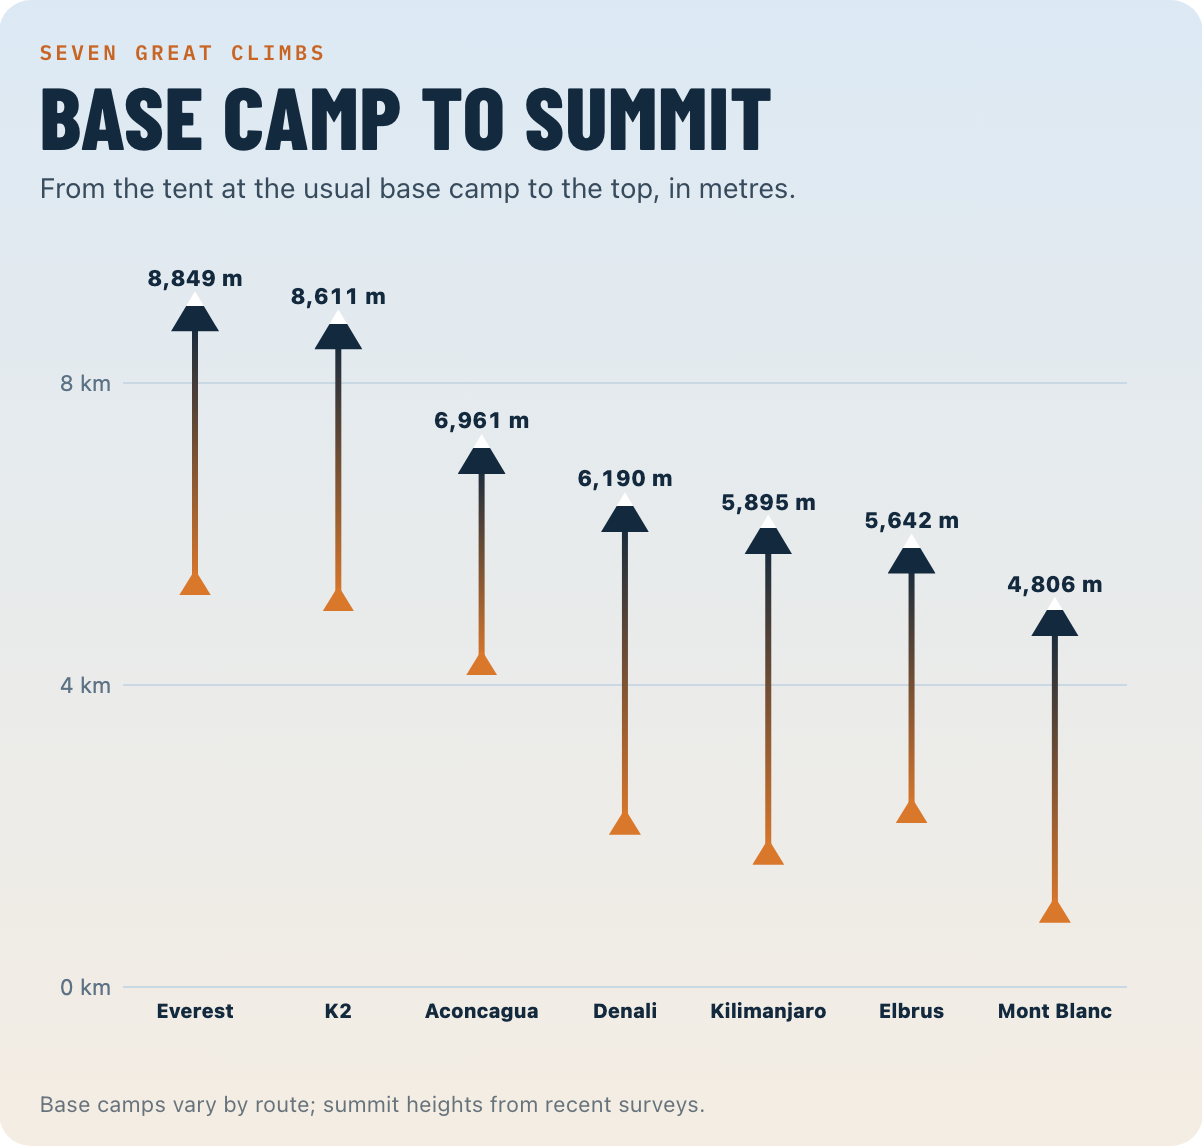
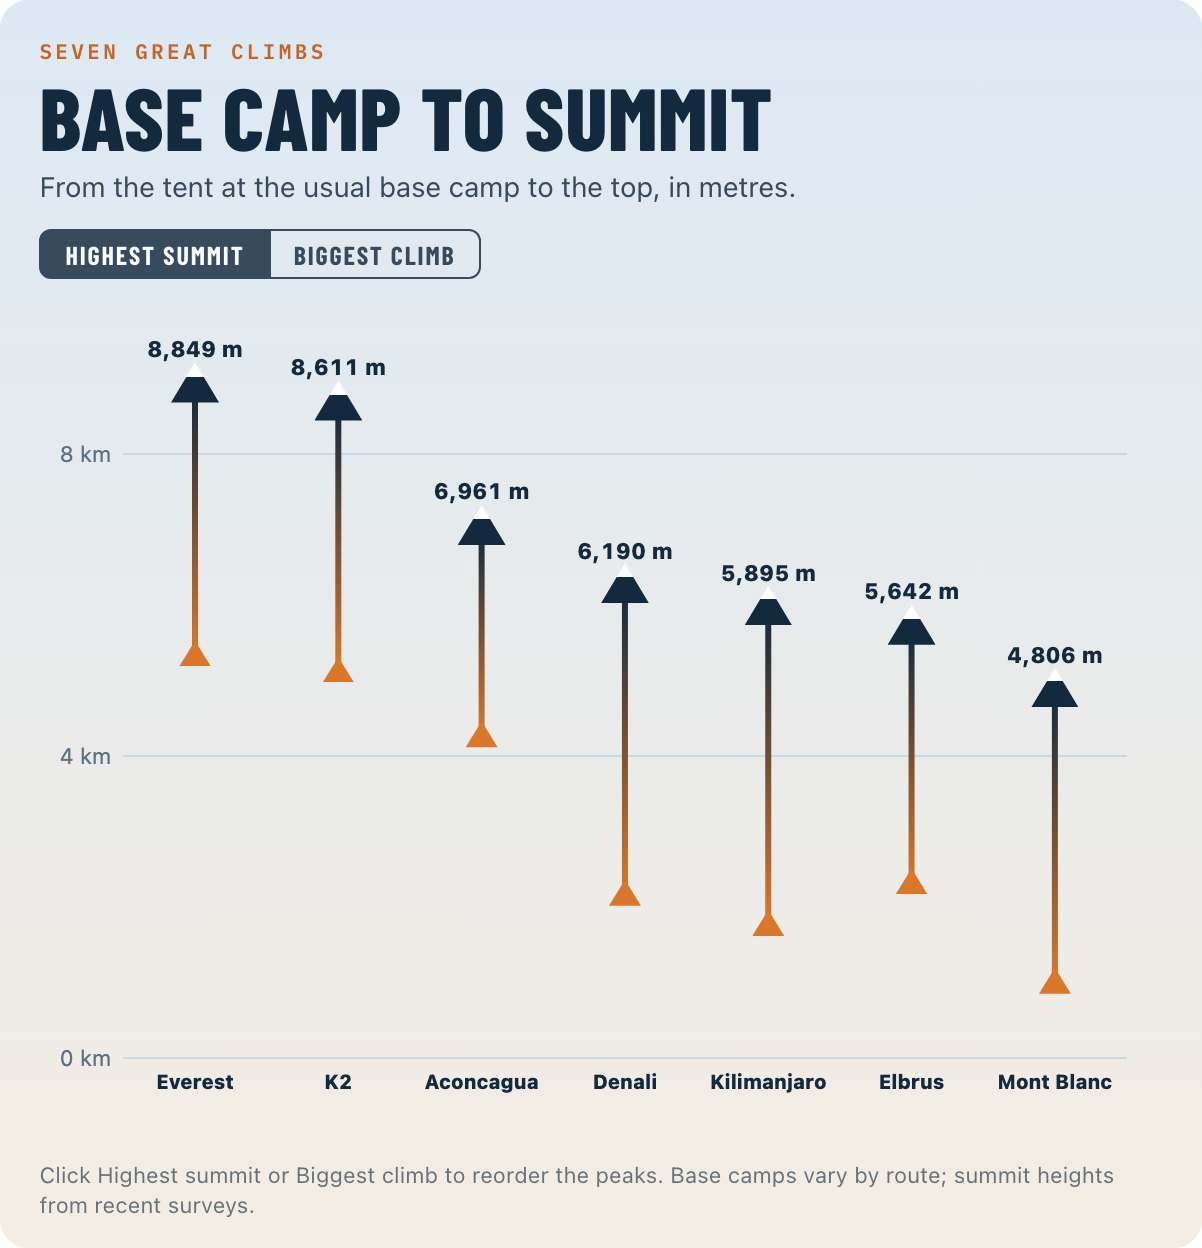
Controls inside the posters, the climb on each route, a one-line trial dek, and letting go of a battery app by clicking elsewhere
An ageing country picks its year with 1990 and 2024 buttons in its key, and Base camp to summit its order with two buttons under the dek, each styled in its poster's look, with the instructions in the note. Ordered by the climb, each summit's height fades out and the climb fades in halfway up the route. The trial card's dek stays on one line, so hovering never moves the chart. The battery keeps an app when it is clicked (again or not), and lets it go on a click anywhere else or on Escape.

diff --git a/src/customizations/styles/gallery.css b/src/customizations/styles/gallery.css
@@ -20,6 +20,12 @@
 .poster .note { display: block; margin-top: 12px; font-size: 11px; line-height: 1.4; opacity: .62; }
 .poster .keys { display: flex; flex-wrap: wrap; gap: 4px 14px; font-size: 12px; }
 .poster .keys i { display: inline-block; width: 10px; height: 10px; border-radius: 50%; margin-right: 6px; vertical-align: -1px; }
+/* A choice inside a poster (a year, an order): joined buttons, the one in use filled. Each look gives its colors. */
+.poster .choice { display: inline-flex; width: fit-content; }
+.poster .choice button { font: inherit; color: inherit; background: none; cursor: pointer; border: 1.5px solid currentColor; margin-left: -1.5px; }
+.poster .choice button:first-child { margin-left: 0; border-radius: 6px 0 0 6px; }
+.poster .choice button:last-child { border-radius: 0 6px 6px 0; }
+.poster .choice button:focus-visible { outline: 2px solid currentColor; outline-offset: 2px; position: relative; }
 @media (max-width: 480px) { .poster { padding: 16px 14px 12px; } .poster .headline { font-size: 26px; } }
 /* Gold rush: a sports-page medal table on warm white. */
 .poster.medals { background: #f7f3ec; color: #111214; }
@@ -54,6 +60,11 @@
 /* An ageing country: a census poster. */
 .poster.census { background: #f4f1ea; color: #1f2933; }
 .poster.census .headline { font-size: 36px; }
+.poster.census .keys { align-items: center; }
+.poster.census .choice { margin-right: 4px; }
+.poster.census .choice button { padding: 3px 10px; font-weight: 700; font-variant-numeric: tabular-nums; border-color: rgb(31 41 51 / .35); }
+.poster.census .choice button[aria-pressed="true"] { background: #1f2933; border-color: #1f2933; color: #f4f1ea; }
+.poster.census .choice button:not([aria-pressed="true"]):hover { background: rgb(31 41 51 / .07); }
 /* Hotter than normal: climate stripes at night. */
 .poster.climate { background: #0d1117; color: #e8ecf2; }
 .poster.climate .kicker { color: #f58058; opacity: 1; }
@@ -84,6 +95,9 @@
 .poster.clinic { background: #f3faf8; color: #0f3d3a; }
 .poster.clinic .kicker { color: #0e9f8a; opacity: 1; }
 .poster.clinic .headline { font: 800 32px/1.02 system-ui, -apple-system, sans-serif; letter-spacing: -0.035em; }
+/* The dek reads out the capsule under the pointer: one line, so the chart under it never moves */
+.poster.clinic .dek { max-width: none; white-space: nowrap; overflow: hidden; text-overflow: ellipsis; }
+@media (max-width: 480px) { .poster.clinic .dek { font-size: 13px; } }
 /* The sound of a bell: a music app's waveform. */
 .poster.sound { background: radial-gradient(120% 90% at 50% 0%, #2a1d48, #0e0c14 62%); color: #f4f1ff; }
 .poster.sound .kicker { color: #ec4899; opacity: 1; }
@@ -94,6 +108,11 @@
 .poster.alpine { background: linear-gradient(180deg, #dce9f4, #f4ede3); color: #13293d; }
 .poster.alpine .kicker { color: #c96524; opacity: 1; }
 .poster.alpine .headline { font: 800 44px/.92 "Barlow Condensed", "Arial Narrow", sans-serif; text-transform: uppercase; letter-spacing: .01em; }
+.poster.alpine .choice { display: flex; margin-top: 10px; }
+.poster.alpine .choice button { padding: 5px 12px 4px; font: 700 13px/1.1 "Barlow Condensed", "Arial Narrow", sans-serif; text-transform: uppercase;
+  letter-spacing: .07em; color: #13293d; border-color: #13293d; }
+.poster.alpine .choice button[aria-pressed="true"] { background: #13293d; color: #fff; }
+.poster.alpine .choice button:not([aria-pressed="true"]):hover { background: rgb(19 41 61 / .08); }
 /* From plot to keys: an architect's drawing sheet. */
 .poster.drawing { color: #141414; background-color: #fbfaf7;
   background-image: linear-gradient(#efece6 1px, transparent 1px), linear-gradient(90deg, #efece6 1px, transparent 1px); background-size: 16px 16px; }

diff --git a/src/gallery/examples/population-pyramid/poster/chart.jsx b/src/gallery/examples/population-pyramid/poster/chart.jsx
@@ -1,4 +1,4 @@
-import { createMemo, createSignal } from "solid-js";
+import { createMemo, createSignal, For } from "solid-js";
 import { Plot, Chart, Bar, Label, slat } from "@bezda/rhp";
 import { Poster } from "@gallery/ui/Poster.jsx";
 import { rand } from "@gallery/random.js";
@@ -7,6 +7,7 @@ import * as styles from "./styles.js";
 const AGES = ["0-9", "10-19", "20-29", "30-39", "40-49", "50-59", "60-69", "70-79", "80+"];
 // % of the population in each band: a young country in 1990, an ageing one in 2024
 const MEN = { 1990: [7.0, 7.6, 7.7, 7.3, 6.4, 5.1, 4.0, 2.6, 1.1], 2024: [3.6, 4.2, 4.9, 5.5, 6.7, 7.3, 6.8, 5.7, 4.1] };
+const YEARS = [1990, 2024];
 const SPINE = 1.7; // scale units kept clear each side of 0, for the age labels
 
 // Men to the left of a spine of ages, women to the right: both Bars start SPINE away from 0 and run outward.
@@ -26,7 +27,7 @@ export const AgeSlat = slat({
 ));
 
 export default function Pyramid(p) {
-  // Both years' men, then women; the button picks the year the bars show, and they move to it.
+  // Both years' men, then women; a year's button in the key picks the year the bars show, and they move to it.
   const [year, setYear] = createSignal(2024);
   const shares = createMemo(() => {
     const vary = p.seed() ? () => rand(0.88, 1.12) : () => 1;
@@ -40,15 +41,17 @@ export default function Pyramid(p) {
   const widest = createMemo(() => Math.max(9, Math.ceil(Math.max(...Object.values(shares()).flatMap((s) => [...s.men, ...s.women])))));
   const oldestFirst = AGES.map((_, i) => AGES.length - 1 - i); // position of each row: order is data
   return (
-    <>
-      <div class="buttons"><button class="mini" onClick={() => setYear(year() === 2024 ? 1990 : 2024)}>{year() === 2024 ? "Back to 1990" : "Forward to 2024"}</button></div>
-      <Poster look="census" kicker={`Census ${year()} · share of the population`} title={year() === 2024 ? "An ageing country" : "A young country"}
-        dek={<span class="keys"><span><i style={{ background: "#1d6fa5" }} />Men</span><span><i style={{ background: "#d9694c" }} />Women</span><span>% in each age band</span></span>}
-        note="Illustrative figures.">
-        <Chart orientation={p.o()} scale={[-(widest() + SPINE), widest() + SPINE]} ticks={false} height={320} animate={p.js()} theme={styles.theme}>
-          <Plot age={AGES} men={men()} women={women()} order={p.o() === "horizontal" ? oldestFirst : undefined}>{AgeSlat}</Plot>
-        </Chart>
-      </Poster>
-    </>
+    <Poster look="census" kicker={`Census ${year()} · share of the population`} title={year() === 2024 ? "An ageing country" : "A young country"}
+      dek={<span class="keys">
+        <span class="choice" role="group" aria-label="Census year">
+          <For each={YEARS}>{(y) => <button type="button" aria-pressed={year() === y} onClick={() => setYear(y)}>{y}</button>}</For>
+        </span>
+        <span><i style={{ background: "#1d6fa5" }} />Men</span><span><i style={{ background: "#d9694c" }} />Women</span><span>% in each age band</span>
+      </span>}
+      note="Click 1990 or 2024 to see the country in that census. Illustrative figures.">
+      <Chart orientation={p.o()} scale={[-(widest() + SPINE), widest() + SPINE]} ticks={false} height={320} animate={p.js()} theme={styles.theme}>
+        <Plot age={AGES} men={men()} women={women()} order={p.o() === "horizontal" ? oldestFirst : undefined}>{AgeSlat}</Plot>
+      </Chart>
+    </Poster>
   );
 }

diff --git a/src/gallery/examples/dumbbell/poster/chart.jsx b/src/gallery/examples/dumbbell/poster/chart.jsx
@@ -9,33 +9,37 @@ const CAMP = [5364, 5150, 4300, 2200, 1800, 2350, 1035]; // the usual base camp,
 const SUMMIT = [8849, 8611, 6961, 6190, 5895, 5642, 4806];
 const metres = (v) => Math.round(v).toLocaleString("en-GB") + " m";
 
-// A climb: the route from the tent at base camp to the snow-capped peak.
+// A climb: the route from the tent at base camp to the snow-capped peak. Ordered by the climb (d.by), the summit's
+// height gives way to the climb itself, halfway up the route.
 export const ClimbSlat = slat({
   thickness: { horizontal: 50 },
   room: { horizontal: { start: 124, end: 70 }, vertical: { start: 38, end: 34, after: 18 } },
   css: styles.climb,
 }, (d) => (
-  <div>
+  <div class={d.by === "climb" ? "by-climb" : ""}>
     <Label edge="start" class="peak-name">{d.peak}<small>{d.where}</small></Label>
     <Bar from={d.camp} to={d.summit} thick="3px" class="route" />
     <Dot at={d.camp} class="tent" />
     <Dot at={d.summit} class="summit" />
-    <Label at={d.summit} class="height">{metres(d.summit)}</Label>
+    <Label at={d.summit} class="height"><span>{metres(d.summit)}</span></Label>
+    <Label at={(d.camp + d.summit) / 2} class="gain"><span>+{metres(d.summit - d.camp)}</span></Label>
   </div>
 ));
 
 export default function Range(p) {
-  const [by, setBy] = createSignal("summit");
+  const [by, setBy] = createSignal("summit"); // the order: "summit" (the highest first) or "climb" (the biggest first)
   return (
-    <>
-      <div class="buttons"><button class="mini" onClick={() => setBy(by() === "summit" ? "climb" : "summit")}>{by() === "summit" ? "Sort by the climb" : "Sort by the summit"}</button></div>
-      <Poster look="alpine" kicker="Seven great climbs" title="Base camp to summit" dek="From the tent at the usual base camp to the top, in metres."
-        note="Base camps vary by route; summit heights from recent surveys.">
-        <Chart orientation={p.o()} scale={[0, 9000]} ticks={[0, 4000, 8000]} format={(v) => v / 1000 + " km"} height={340} animate={p.js()} theme={styles.theme}>
-          <Plot peak={PEAKS} where={WHERE} camp={CAMP} summit={SUMMIT} key="peak"
-            order={sortBy((d) => (by() === "summit" ? d.summit : d.summit - d.camp), "desc")}>{ClimbSlat}</Plot>
-        </Chart>
-      </Poster>
-    </>
+    <Poster look="alpine" kicker="Seven great climbs" title="Base camp to summit"
+      dek={<>From the tent at the usual base camp to the top, in metres.
+        <span class="choice" role="group" aria-label="Order the peaks by">
+          <button type="button" aria-pressed={by() === "summit"} onClick={() => setBy("summit")}>Highest summit</button>
+          <button type="button" aria-pressed={by() === "climb"} onClick={() => setBy("climb")}>Biggest climb</button>
+        </span></>}
+      note="Click Highest summit or Biggest climb to reorder the peaks. Base camps vary by route; summit heights from recent surveys.">
+      <Chart orientation={p.o()} scale={[0, 9000]} ticks={[0, 4000, 8000]} format={(v) => v / 1000 + " km"} height={340} animate={p.js()} theme={styles.theme}>
+        <Plot peak={PEAKS} where={WHERE} camp={CAMP} summit={SUMMIT} by={by()} key="peak"
+          order={sortBy((d) => (by() === "summit" ? d.summit : d.summit - d.camp), "desc")}>{ClimbSlat}</Plot>
+      </Chart>
+    </Poster>
   );
 }

diff --git a/src/gallery/examples/segmented-bars/poster/chart.jsx b/src/gallery/examples/segmented-bars/poster/chart.jsx
@@ -1,4 +1,4 @@
-import { createSignal, createMemo } from "solid-js";
+import { createSignal, createMemo, onMount, onCleanup } from "solid-js";
 import { Plot, Chart, Bar, Tick, Label, slat, stackUp, shares } from "@bezda/rhp";
 import { Poster } from "@gallery/ui/Poster.jsx";
 import { rand } from "@gallery/random.js";
@@ -43,26 +43,29 @@ export const BatterySlat = slat({
 export default function Segmented(p) {
   const use = createMemo(() => (p.seed() ? PEOPLE.map(() => APPS.map(() => rand(4, 40))) : USE));
   // The app in focus: the one the pointer is on, in the key or in a battery, else the one clicked. The key buttons and
-  // the segments carry data-app, and the poster listens for both. A click, or Enter on a key, pins an app or unpins it.
+  // the segments carry data-app, and the poster listens for both. A click on an app, or Enter on a key, keeps it; a
+  // click anywhere else, in the poster or on the page, or Escape, lets it go.
   // The pointer counts when it moves: a still pointer over a badge that comes or goes isn't a new choice.
   const [hovered, setHovered] = createSignal(null), [pinned, setPinned] = createSignal(null);
   const app = () => hovered() ?? pinned();
-  const under = (e) => e.target.closest("[data-app]")?.dataset.app ?? null;
-  const pin = (e) => {
-    const a = under(e);
-    if (!a) return;
-    setPinned(pinned() === a ? null : a);
-    setHovered(null); // the click is the latest word, until the pointer moves again
-  };
+  const under = (e) => e.target.closest?.("[data-app]")?.dataset.app ?? null;
+  onMount(() => {
+    const click = (e) => {
+      setPinned(under(e));
+      setHovered(null); // the click is the latest word, until the pointer moves again
+    };
+    document.addEventListener("click", click);
+    onCleanup(() => document.removeEventListener("click", click));
+  });
   return (
     <Poster look="battery" kicker="A day on one charge" title="Where the battery goes"
-      onPointerMove={(e) => setHovered(under(e))} onPointerLeave={() => setHovered(null)} onClick={pin}
+      onPointerMove={(e) => setHovered(under(e))} onPointerLeave={() => setHovered(null)} onKeyDown={(e) => e.key === "Escape" && setPinned(null)}
       dek={<span class="keys">{APPS.map((a, i) => (
         <button type="button" data-app={a} aria-pressed={pinned() === a} classList={{ off: app() != null && app() !== a }}>
           <i style={{ background: APP_COLORS[i] }} />{a}
         </button>
       ))}</span>}
-      note="Point at an app, in the key or in a battery, to follow it through everyone's day; click to keep it.">
+      note="Point at an app, in the key or in a battery, to follow it through everyone's day. Click it to keep it; click anywhere else to let it go.">
       <Chart orientation={p.o()} scale={[0, 100]} ticks={false} height={300} animate={p.js()} theme={styles.theme}>
         <Plot name={PEOPLE} use={use()} focus={app()}>{BatterySlat}</Plot>
       </Chart>

diff --git a/src/gallery/examples/strip-plot/poster/chart.jsx b/src/gallery/examples/strip-plot/poster/chart.jsx
@@ -35,17 +35,18 @@ export const ArmSlat = slat({
 
 export default function Strip(p) {
   const days = createMemo(() => (p.seed(), TRIAL.map(([m, s]) => normalsIn(30, 1, 23, m, s))));
-  // The patient under the pointer, [arm, patient], read out in the dek; the other arms fade.
+  // The patient under the pointer, [arm, patient], read out in the dek on one line (so the chart never moves); the
+  // other arms fade.
   const [picked, setPicked] = createSignal(null);
   const point = (e) => { const c = e.target.closest("[data-patient]"); setPicked(c ? [+c.dataset.arm, +c.dataset.patient] : null); };
   const dek = () => {
     const at = picked();
-    if (!at) return "Each capsule is one patient; the dark line is the group's average.";
+    if (!at) return "Each capsule is a patient; the line is the average.";
     const [arm, i] = at, mine = days()[arm][i], mean = sum(days()[arm]) / days()[arm].length;
-    return `${ARMS[arm]}: back in ${mine.toFixed(1)} days, ${Math.abs(mine - mean).toFixed(1)} ${mine < mean ? "sooner" : "later"} than its average.`;
+    return `${ARMS[arm]}: ${mine.toFixed(1)} days, ${Math.abs(mine - mean).toFixed(1)} ${mine < mean ? "sooner" : "later"} than its average`;
   };
   return (
-    <Poster look="clinic" kicker="Trial results · days to recover" title="Back on your feet sooner" dek={dek()} note="Illustrative data."
+    <Poster look="clinic" kicker="Trial results · days to recover" title="Back on your feet sooner" dek={dek()} note="Point at a capsule to read that patient's recovery. Illustrative data."
       onPointerMove={point} onPointerDown={point} onPointerLeave={(e) => e.pointerType !== "touch" && setPicked(null)}>
       <Chart orientation={p.o()} scale={[0, 24]} ticks={[0, 8, 16, 24]} format={(v) => v + " d"} height={320} animate={p.js()} theme={styles.theme}>
         <Plot arm={ARMS} days={days()} color={CAPSULE} pickedArm={picked()?.[0] ?? -1} pickedPatient={picked()?.[1] ?? -1}>{ArmSlat}</Plot>

diff --git a/src/gallery/examples/dumbbell/poster/styles.js b/src/gallery/examples/dumbbell/poster/styles.js
@@ -3,7 +3,9 @@
 // The chart's theme: its text and line colors, its surface and its font.
 export const theme = { font: "system-ui, sans-serif", ink: "#13293d", muted: "#5d7285", grid: "#cad8e4", surface: "#e6eef5" };
 
-// A climb: the peak's name and country, the route from the tent to the snow-capped summit, and its height.
+// A climb: the peak's name and country, the route from the tent to the snow-capped summit, and its height. Ordered by
+// the climb, the height fades out and the climb fades in halfway up the route: under it, or on it and turned along it
+// when vertical.
 export const climb = `
 .peak-name { font-size: 15px; font-weight: 800; letter-spacing: -0.01em; }
 .peak-name small { display: block; margin-top: 2px; font-size: 11px; font-weight: 500; color: var(--rhp-muted); }
@@ -20,4 +22,12 @@ export const climb = `
 .height { font-size: 13px; font-weight: 800; font-variant-numeric: tabular-nums; }
 .height:horizontal { --rhp-label-gap: 16px; }
 .height:vertical { padding-bottom: 14px; font-size: 11px; }
+.gain { padding: 0; }
+.gain > span { display: block; font-size: 11px; font-weight: 800; font-variant-numeric: tabular-nums; }
+.gain:horizontal { translate: -50% 9px; }
+.gain:vertical { translate: -50% 50%; rotate: -90deg; }
+.gain:vertical > span { padding: 2px 8px; border-radius: 99px; background: #fff; box-shadow: 0 0 0 1.5px #d9772b; font-size: 12px; }
+.height > span, .gain > span { transition: opacity .3s, visibility .3s; }
+.gain > span, .by-climb .height > span { opacity: 0; visibility: hidden; }
+.by-climb .gain > span { opacity: 1; visibility: visible; }
 `;
